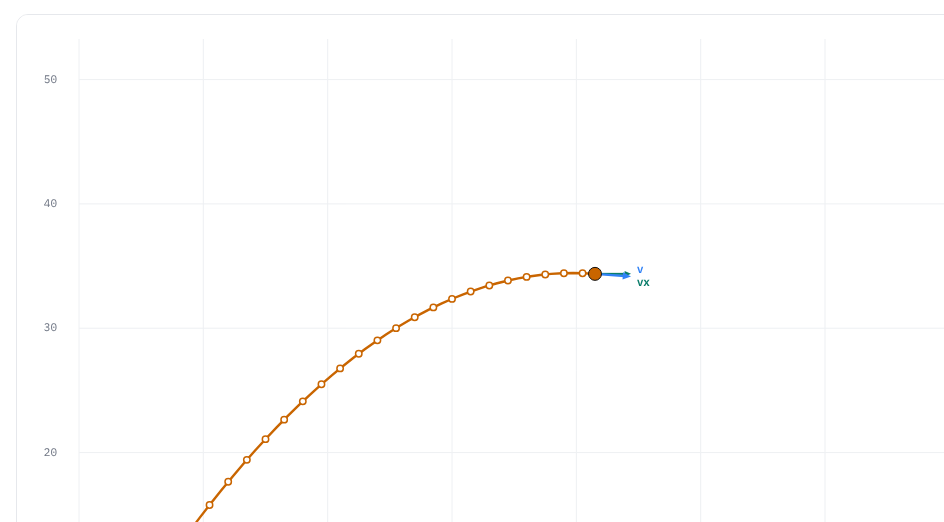
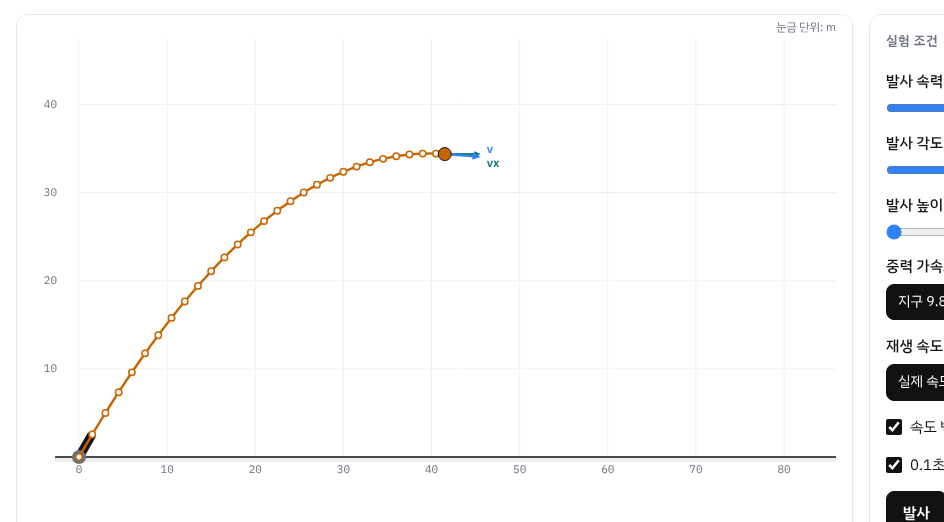
물리 역학과 에너지 실험실: 스크롤 없이 한 화면에서 조작하도록 배치 개선
휘쌤 요청: 실험 화면이 창보다 커서 아래로 스크롤해야 측정값·결과를 볼 수 있어 불편함.

원인
- 시뮬레이션 캔버스가 폭에 맞춘 16:10 비율이라, Full HD(뷰어 안 높이 844px)에서
  캔버스가 930px까지 내려가고 측정값·결과 줄은 화면 밖. 노트북(544px)에서는 더 심함.
- 실험 제목 영역(분류·큰 제목·설명)이 위쪽 100~190px 차지.
- 태블릿 폭(1180px 이하)에서는 실험 조건이 캔버스 아래로 내려가 조작하려면 스크롤.

고친 것
- 실험대 높이를 창 높이에 맞춤(layout): 캔버스는 남는 높이를 채우고 측정값·결과 줄은
  늘 화면 안. 아주 큰 화면에서는 16:10보다 세로로 길어지지 않게, 낮은 창에서는 최소 380px.
- 실험 조건 칸은 같은 높이로 맞추고 안쪽 스크롤, [발사]·[시작]·[기록] 버튼 줄은 아래에 고정.
- 두 열 배치를 900px 폭부터 유지 (태블릿 가로 화면에서도 조건이 옆에).
- 제목·설명을 한 줄로 압축, 뷰어 안에서는 '실험 0N' 분류 줄 숨김.
  상대성 실험의 핵심 3줄은 가로 한 줄로.
- 측정값·조건·버튼·표 글자 크기 키움.
- [이번 결과 기록]을 누를 때 기록 표가 화면 밖이면 '측정 기록 표 보기 ↓' 알림 (누르면 이동).
- 포물선 운동: 땅에 닿을 때 아래로 향하는 속도 화살표가 캔버스 밑에서 잘리던 문제
  (속도 벡터를 켜면 아래 여백 확대).
- 썸네일 6장 다시 캡처, CLAUDE.md 작업 상태 갱신.

검증: 1920×950 · 1536×740 · 1366×650 · 1024×700 (뷰어), 1830×980 · 1180×800 (단독),
390×844 (휴대폰)에서 6개 실험 모두 실행 버튼을 눌러 확인. 페이지 오류 0.

Claude-Session: https://claude.ai/code/session_01YFfKQJ7hp1e5en5v876a5z

diff --git a/labs/physics/mechanics-energy.html b/labs/physics/mechanics-energy.html
@@ -151,6 +151,57 @@ input[type=range]{accent-color:#3182F6}
 body.vlab-embed{padding-block:16px 40px}
 body.vlab-embed .side{display:none}
 body.vlab-embed .shell{grid-template-columns:minmax(0,1fr);max-width:1600px}
+
+/* ===== 조작 편의 배치 (2026-11 휘쌤 요청): 스크롤 없이 실험 화면·측정값·실험 조건이 한 화면에 들어오게 =====
+   - 넓은 화면(900px 이상, 단독 실행 1001~1240px 제외): 실험대(.bench) 높이를 스크립트가 창 높이에 맞춰 정하고(layout), 캔버스는 남는 높이를 채움.
+     실험 조건 칸은 같은 높이에서 안쪽 스크롤, [발사]·[시작] 같은 버튼 줄은 아래에 붙어 늘 보임.
+   - 좁은 화면: 캔버스 16:10(휴대폰 1:1)을 유지하되 창 높이를 넘지 않게. */
+body{padding-block:16px 48px}
+body.vlab-embed{padding-block:12px 40px}
+.lab{gap:14px}
+.lab-head{max-width:none;display:flex;flex-wrap:wrap;align-items:baseline;gap:2px 14px}
+.lab-head .eyebrow{flex-basis:100%}
+body.vlab-embed .lab-head .eyebrow{display:none}
+.lab-head h2{font-size:25px;margin:0}
+.lab-head p{font-size:15px}
+.keys{flex-basis:100%;flex-direction:row;flex-wrap:wrap;gap:2px 30px;margin:2px 0 0;font-size:14.5px}
+.cvbox{position:relative;aspect-ratio:16/10;max-height:calc(100vh - 150px);min-height:260px}
+.cvbox canvas,.stage .cvbox canvas{position:absolute;inset:0;width:100%;height:100%;aspect-ratio:auto}
+@media (max-width:640px){.cvbox{aspect-ratio:1/1}}
+@media (min-width:900px){
+  .bench{grid-template-columns:minmax(0,1fr) clamp(290px,25vw,340px);align-items:stretch}
+  .bench .stage{display:flex;flex-direction:column}
+  .bench .cvbox{flex:1 1 0;aspect-ratio:auto;max-height:none;min-height:200px}
+  .bench .panel{overflow-y:auto;overscroll-behavior:contain;scrollbar-width:thin}
+}
+/* 단독 실행(왼쪽 실험 목록이 보이는 폭)에서 본문이 좁을 때는 한 열로 */
+@media (min-width:1001px) and (max-width:1240px){
+  body:not(.vlab-embed) .bench{grid-template-columns:minmax(0,1fr)}
+  body:not(.vlab-embed) .bench .stage{display:block}
+  body:not(.vlab-embed) .bench .cvbox{aspect-ratio:16/10;max-height:calc(100vh - 150px);min-height:260px}
+  body:not(.vlab-embed) .bench .panel{overflow:visible}
+}
+/* 버튼 줄: 실험 조건 칸이 스크롤될 때도 아래에 붙어 보임 */
+.bench .panel .btns{position:sticky;bottom:-16px;z-index:1;background:#FFFFFF;padding:10px 0 12px;margin:-10px 0 -12px}
+/* 글자 크게 (측정값·조건) */
+.cap{font-size:13px}
+.readout{font-size:14.5px;gap:6px 22px}
+.readout .u{font-size:13px}
+.result{font-size:15px}
+.sectors{font-size:13.5px}
+.ctl-top label,.ctl-lab,.chk{font-size:15px}
+.num input{font-size:14px;width:84px}
+.num .unit{font-size:13px}
+.seg button{font-size:14px;padding:6px 11px}
+.btn{font-size:15px;padding:9px 16px}
+.btn.sm{font-size:13px}
+.hint{font-size:13.5px}
+.ctls,.grp{gap:14px}
+table{font-size:14px}
+th{font-size:13px}
+/* 기록 알림: 측정 기록 표가 화면 아래에 있을 때 잠깐 띄움 (누르면 표로 이동) */
+.vl-toast{position:fixed;left:50%;bottom:20px;transform:translateX(-50%);z-index:50;display:flex;align-items:center;gap:12px;background:#111111;color:#FFFFFF;border:0;border-radius:12px;padding:11px 18px;font:inherit;font-size:14.5px;cursor:pointer;max-width:calc(100% - 32px)}
+.vl-toast b{font-weight:600;color:#9EC5FF;white-space:nowrap}
 </style>
 </head>
 <body>
@@ -183,7 +234,7 @@ body.vlab-embed .shell{grid-template-columns:minmax(0,1fr);max-width:1600px}
       </header>
       <div class="bench">
         <div class="stage">
-          <canvas class="sim" aria-label="포물선 운동 시뮬레이션 화면"></canvas>
+          <div class="cvbox"><canvas class="sim" aria-label="포물선 운동 시뮬레이션 화면"></canvas></div>
           <p class="cap">공기 저항 무시 · 가로·세로 눈금 비율 같음</p>
           <div class="readout"></div>
           <div class="result" aria-live="polite">발사 버튼을 누르면 결과가 여기에 나와요.</div>
@@ -224,7 +275,7 @@ body.vlab-embed .shell{grid-template-columns:minmax(0,1fr);max-width:1600px}
       </header>
       <div class="bench">
         <div class="stage">
-          <canvas class="sim" aria-label="단진자 시뮬레이션 화면"></canvas>
+          <div class="cvbox"><canvas class="sim" aria-label="단진자 시뮬레이션 화면"></canvas></div>
           <p class="cap">배경 눈금 1칸 = 25 cm · 공기 저항 무시</p>
           <div class="readout"></div>
         </div>
@@ -264,7 +315,7 @@ body.vlab-embed .shell{grid-template-columns:minmax(0,1fr);max-width:1600px}
       </header>
       <div class="bench">
         <div class="stage">
-          <canvas class="sim" aria-label="행성 공전 시뮬레이션 화면"></canvas>
+          <div class="cvbox"><canvas class="sim" aria-label="행성 공전 시뮬레이션 화면"></canvas></div>
           <p class="cap">거리 단위 AU(천문단위), 시간 단위 년 · 화살표 길이는 속력에 비례</p>
           <div class="readout"></div>
           <div class="sectors"></div>
@@ -306,7 +357,7 @@ body.vlab-embed .shell{grid-template-columns:minmax(0,1fr);max-width:1600px}
       </header>
       <div class="bench">
         <div class="stage">
-          <canvas class="sim" aria-label="인공위성 궤도 시뮬레이션 화면"></canvas>
+          <div class="cvbox"><canvas class="sim" aria-label="인공위성 궤도 시뮬레이션 화면"></canvas></div>
           <p class="cap">지구 크기와 궤도는 실제 비율 · 공기 저항과 지구 자전 무시</p>
           <div class="readout"></div>
         </div>
@@ -345,7 +396,7 @@ body.vlab-embed .shell{grid-template-columns:minmax(0,1fr);max-width:1600px}
       </header>
       <div class="bench">
         <div class="stage">
-          <canvas class="sim" aria-label="도플러 효과 시뮬레이션 화면"></canvas>
+          <div class="cvbox"><canvas class="sim" aria-label="도플러 효과 시뮬레이션 화면"></canvas></div>
           <p class="cap">위에서 내려다본 모습 · 소리의 속력 340 m/s · 실제보다 150배 느리게 재생</p>
           <div class="readout"></div>
         </div>
@@ -390,7 +441,7 @@ body.vlab-embed .shell{grid-template-columns:minmax(0,1fr);max-width:1600px}
       </header>
       <div class="bench">
         <div class="stage">
-          <canvas class="sim drag" tabindex="0" aria-label="일반 상대성 이론 시뮬레이션 화면. 방향키로 보는 방향을 바꿀 수 있음"></canvas>
+          <div class="cvbox"><canvas class="sim drag" tabindex="0" aria-label="일반 상대성 이론 시뮬레이션 화면. 방향키로 보는 방향을 바꿀 수 있음"></canvas></div>
           <p class="cap"></p>
           <div class="readout"></div>
         </div>
@@ -499,7 +550,16 @@ function recorder(panel,key,cols){
     }
   });
   render();
-  return{add(r){rows.push(r);save();render();say(rows.length+'번째 기록을 추가했어요.');},get rows(){return rows;},onChange(f){ls.push(f);f(rows);}};
+  return{add(r){rows.push(r);save();render();say(rows.length+'번째 기록을 추가했어요.');toastRec(panel,rows.length);},get rows(){return rows;},onChange(f){ls.push(f);f(rows);}};
+}
+
+/* 기록 알림: 측정 기록 표가 화면 밖(아래)에 있으면 잠깐 알려 주고, 누르면 표로 이동 */
+let toastEl=null,toastT=0;
+function toastRec(panel,n){
+  const r=panel.getBoundingClientRect();if(r.top<window.innerHeight-60&&r.bottom>0)return;
+  if(!toastEl){toastEl=el('button','vl-toast');toastEl.type='button';toastEl.setAttribute('aria-live','polite');document.body.appendChild(toastEl);toastEl.addEventListener('click',()=>{const t=toastEl.__to;toastEl.hidden=true;if(t)t.scrollIntoView({behavior:'smooth',block:'start'});});}
+  toastEl.innerHTML='<span>'+n+'번째 기록을 추가했어요</span><b>측정 기록 표 보기 ↓</b>';toastEl.__to=panel;toastEl.hidden=false;
+  clearTimeout(toastT);toastT=setTimeout(()=>{toastEl.hidden=true;},4000);
 }
 
 /* ---------- 산점도 ---------- */
@@ -562,7 +622,7 @@ mkLab('projectile',L=>{
     const pv=plan();const show=st.run?st.fl:st.done;const ts=st.run?st.t:(st.done?st.done.T:0);
     const fls=st.trails.map(t=>t.f).concat([pv]);if(show)fls.push(show);
     const xMax=Math.max(10,...fls.map(f=>f.R))*1.08,yMax=Math.max(5,...fls.map(f=>Math.max(f.H,f.h)))*1.15;
-    const pt=24,pr=16,pb=30,ox=62,oy=h-pb;
+    const pt=24,pr=16,pb=st.vec?80:30,ox=62,oy=h-pb;   // 속도 벡터를 켜면 땅에 닿을 때 아래로 향하는 화살표(최대 72px)가 잘리지 않게 아래 여백을 늘림
     const s=Math.min((w-ox-pr)/xMax,(oy-pt)/yMax);const X=x=>ox+x*s,Y=y=>oy-y*s;
     const step=niceStep(Math.max(w-ox-pr,oy-pt)/s,8);
     ctx.lineWidth=1;
@@ -981,6 +1041,20 @@ mkLab('relativity',L=>{
 
 /* ---------- 화면 전환·반복 ---------- */
 let active=null;
+/* 넓은 화면에서 실험대(시뮬레이션 화면 + 실험 조건) 높이를 창 높이에 맞춤.
+   화면 비율은 16:10 보다 세로로 길어지지 않게, 너무 낮은 창에서는 최소 380px 를 지킴 */
+const wideMQ=window.matchMedia('(min-width:900px)'),soloMQ=window.matchMedia('(min-width:1001px) and (max-width:1240px)');
+function layout(){
+  if(!active)return;const bench=active.sec.querySelector('.bench');if(!bench)return;
+  if(!wideMQ.matches||(soloMQ.matches&&!document.body.classList.contains('vlab-embed'))){bench.style.height='';return;}
+  const stage=bench.querySelector('.stage'),box=stage&&stage.querySelector('.cvbox');if(!box)return;
+  const top=bench.getBoundingClientRect().top+window.scrollY;
+  const extra=stage.offsetHeight-box.offsetHeight;
+  const avail=window.innerHeight-top-14;
+  const ideal=box.offsetWidth*10/16+extra;
+  bench.style.height=Math.round(Math.max(380,Math.min(avail,ideal)))+'px';
+}
+let layT=0;window.addEventListener('resize',()=>{cancelAnimationFrame(layT);layT=requestAnimationFrame(layout);});
 const ORDER=['projectile','pendulum','kepler','satellite','doppler','relativity'];   // V-Lab 뷰어의 exp=N 번호 순서 (data/labs.js 와 같아야 함)
 function idFromHash(){const h=location.hash.slice(1);const m=h.match(/(?:^|&)exp=(\d+)/);if(m)return ORDER[+m[1]]||'projectile';return h.split('&')[0];}
 function show(id){
@@ -988,7 +1062,7 @@ function show(id){
   if(active&&active.leave)active.leave();
   Object.values(LABS).forEach(l=>{l.sec.hidden=l.id!==id;});
   document.querySelectorAll('nav.labs a').forEach(a=>{if(a.getAttribute('href')==='#'+id)a.setAttribute('aria-current','page');else a.removeAttribute('aria-current');});
-  active=LABS[id];active.dirty=true;if(active.drawChart)requestAnimationFrame(()=>active.drawChart());
+  active=LABS[id];active.dirty=true;layout();if(active.drawChart)requestAnimationFrame(()=>active.drawChart());
 }
 window.addEventListener('hashchange',()=>{const before=active;show(idFromHash());if(active!==before)window.scrollTo({top:0,behavior:matchMedia('(prefers-reduced-motion: reduce)').matches?'auto':'smooth'});});
 show(idFromHash());
@@ -997,7 +1071,7 @@ function markAll(){Object.values(LABS).forEach(l=>{l.dirty=true;});if(active&&ac
 const mq=window.matchMedia('(prefers-color-scheme: dark)');const onTheme=()=>{readColors();markAll();};
 if(mq.addEventListener)mq.addEventListener('change',onTheme);else if(mq.addListener)mq.addListener(onTheme);
 new MutationObserver(onTheme).observe(document.documentElement,{attributes:true,attributeFilter:['data-theme']});
-if(document.fonts&&document.fonts.ready)document.fonts.ready.then(onTheme);
+if(document.fonts&&document.fonts.ready)document.fonts.ready.then(()=>{layout();onTheme();});
 if('ResizeObserver' in window){const ro=new ResizeObserver(ents=>{ents.forEach(en=>{const lab=en.target.__lab;if(!lab)return;lab.dirty=true;if(en.target.classList.contains('chart')&&lab.drawChart)lab.drawChart();});});Object.values(LABS).forEach(l=>{l.cv.__lab=l;ro.observe(l.cv);if(l.chartCv){l.chartCv.__lab=l;ro.observe(l.chartCv);}});}
 
 let last=performance.now();

diff --git a/CLAUDE.md b/CLAUDE.md
@@ -6,6 +6,8 @@
 
 - 물리 첫 실험 **역학과 에너지 가상 실험실**(하영우 선생님, 6가지) 등록·검토·배포 완료. 커밋 `2a2c092`(등록), `4c61c7a`(검토 반영: 런타임 6·교과 6·UX 9). 사이트 반영됨.
 - 검토에서 고친 것 요약: 애니메이션 마지막 프레임 누락(상대성·포물선·위성), 도플러 중복 기록, draw 예외 시 전체 정지 방지, 블랙홀 슬라이더 최솟값, "목성 위성" 문장 정정, 충격파 조건 문구, GPS 45 μs 설명, 실험 전환 시 맨 위로 스크롤, 소리 미지원 안내, 인공위성 [멈춤] 버튼 등. 자세한 목록은 `git show 4c61c7a` 커밋 메시지.
+- 같은 날 이어서: 역학과 에너지 **조작 편의 배치** 개선 (휘쌤 요청 "스크롤해야 해서 불편"). 넓은 화면(900px 이상)에서 실험대 높이를 창 높이에 맞추고(`layout()`, 16:10 상한·380px 하한), 캔버스는 `.cvbox` 안에서 남는 높이를 채움, 실험 조건 칸은 안쪽 스크롤 + 버튼 줄 아래 고정, 제목 한 줄로 압축, 글자 키움, 기록 시 '측정 기록 표 보기 ↓' 알림. 다른 선생님의 한 화면형 실험에도 같은 방식을 쓸 수 있음.
+- 배포 워크플로는 `claude/awesome-johnson-vp7823`·`main` 푸시에만 돈다. 세션 브랜치가 다르면 작업 후 `git push origin HEAD:claude/awesome-johnson-vp7823` 로도 올린다 (휘쌤 허락 받음).
 - 사용자가 다음에 할 가능성이 큰 일: 다른 선생님 실험 HTML을 받아 올리기 (아래 절차대로), 하영우 선생님 추가 요청 반영.
 - 주의: 클라우드 컨테이너에서는 `08hwichemi.github.io` 접속이 막혀 있어 실제 사이트는 curl 로 확인 못 함. 배포 성공 여부는 `gh run list --repo 08hwichemi/v-lab --limit 2` 로 본다.
 - 새 세션은 반드시 저장소 `08hwichemi/v-lab` + 브랜치 `claude/awesome-johnson-vp7823` 을 선택해서 연다 (저장소 없이 열면 add_repo 로 붙여야 하고 세션이 따로 묶임).
